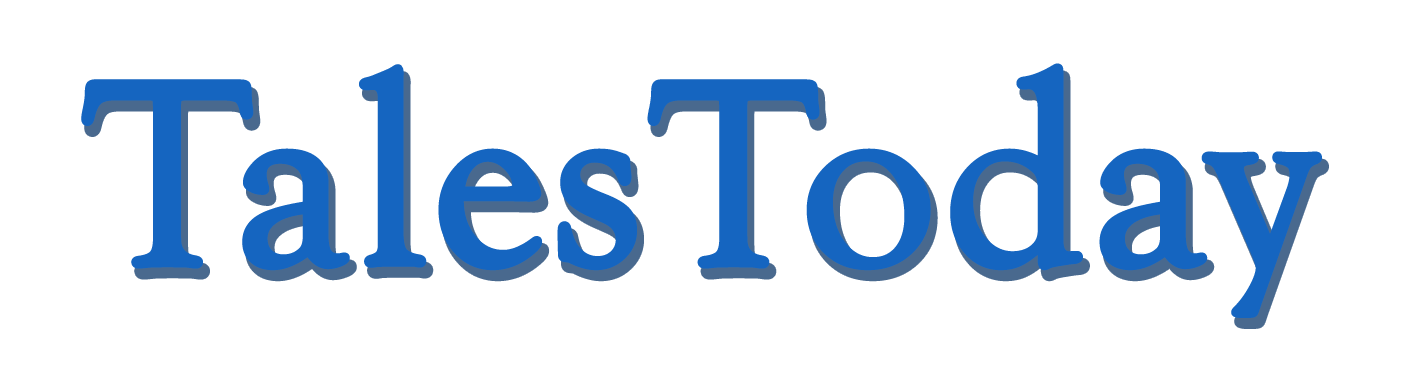
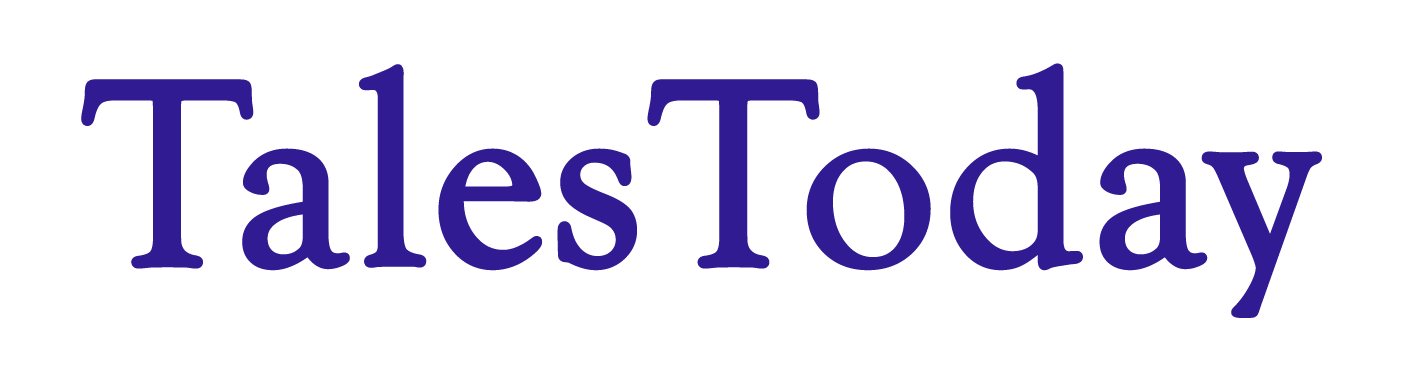
added new flair and did some UI work

Changed region(s): [[0.4344, 0.1793, 0.9619, 0.8967], [0.031, 0.1793, 0.4654, 0.7772]]

diff --git a/todaytales/utils/Constants.js b/todaytales/utils/Constants.js
@@ -1,8 +1,8 @@
 export const BASE_URL = process.env.NEXT_PUBLIC_REACT_APP_BASE_URL
 
-var primary='#26c6da'//green  
+var primary='#ffff00'//green  
 var primaryVariant='#ffff00'
-var secondary= '#ffffff'//blue  1565c0
+var secondary= '#311b92'//blue  1565c0
 var background= '#efefef'//light grey
 var sWhite= '#ffffff'
 var sBlack= '#000000'
@@ -16,46 +16,17 @@ export const COLORS = {
   primaryVariant,
   //misc
   textDark:sBlack,
-  circularProgressColor: primary,
   //header
   headerColor: primary,
   headerAccentColor: secondary,
   headerTextColor: secondary,
-  //booking boxes
-  bookingBoxDefault: sWhite,//white
-  bookingBoxtextLight: sWhite,//white
-  bookingBoxtextDark:'#6a6a6a',//grey
-  bookingBoxSelected:'#66bb6a',//green
-  bookingBoxBooked:'#e57373',//red
+  //cardBig
+  cardHalo: secondary,
+  //flairs
+  techFlairBg: '#90a4ae',
+  entFlairBg: '#ff8a65',
   //tags
   tagBackgroundColor: background,//aliceblue
-  //payment button
-  paymentButtonColor:'#66bb6a',//green
-  paymentButtonBorderColor:'#66bb6a',//green
-  paymentButtonTextColor:'#ffffff',
-  //message button
-  messageButtonColor:secondary,
-  messageButtonBorderColor:secondary,//green
-  messageButtonTextColor:sWhite,//green
-  mapInfoWindowBackground:'#ffffff',
-  //book now button
-  bookNowButtonColor: secondary,
-  bookNowButtonBorderColor: secondary,
-  bookNowButtonTextColor: sWhite,
-  //learn more button
-  learnMoreButtonColor: secondary,
-  learnMoreButtonTextColor: sWhite,
-  learnMoreButtonColorClosed:'grey',
-  learnMoreButtonTextColorClosed:sWhite,
-  statusLineColorClosed:'red',
-  statusLineOnlineClasses:'#f9a825',//kinda orange?
-  //filter area
-  filterBorderColor: sWhite,
-  filterLabelColor: sWhite,
-  faqLinkColor: sBlack,
-  //fab
-  fabCallBackground: primary,
-  fabCallForeground: sWhite
 }
 
 export const STYLES = {

diff --git a/todaytales/components/StoryCardBig.js b/todaytales/components/StoryCardBig.js
@@ -25,7 +25,11 @@ export default function StoryCardBig(props){
             </div>
             <div className="Contents">
               <h3>{story.title}</h3>
-              <p>by {story.author.name}</p>
+              <div className='innerGrid'>
+                <p>by {story.author.name}</p>
+                <div className={`flair ${story.category}`}>{story.category}</div>
+              </div>
+              
             </div>
           </a>
         </Link>
@@ -45,11 +49,41 @@ export default function StoryCardBig(props){
         .SimpleCard:hover,
         .SimpleCard:focus,
         .SimpleCard:active {
-          color: ${COLORS.primary};
-          border-color: ${COLORS.primary};
+          color: ${COLORS.cardHalo};
+          border-color: ${COLORS.cardHalo};
+        }
+
+        .innerGrid{
+          display: flex;
+          flex-direction: row;
+          justify-content: space-between;
+          margin-top: 1rem;
+        }
+
+        .flair {
+          display: flex;
+          align-items: center;
+          justify-content: center;
+          padding: 2px 6px;
+          border-radius: 16px;
+        }
+
+        .Tech {
+          color: ${COLORS.sWhite};
+          background-color: ${COLORS.techFlairBg};
+        }
+
+        .Entertainment {
+          color: ${COLORS.sWhite};
+          background-color: ${COLORS.entFlairBg};
         }
 
         h3 {
+          margin-bottom: 0px;
+        }
+
+        p {
+          margin-top: 0px;
           margin-bottom: 0px;
         }
 

diff --git a/todaytales/lib/api.js b/todaytales/lib/api.js
@@ -74,6 +74,7 @@ export async function getAllPostsForHome(preview) {
     {
       allPosts(orderBy: date_DESC, first: 20) {
         title
+        category
         slug
         excerpt
         date
@@ -101,9 +102,11 @@ export async function getPostAndMorePosts(slug, preview) {
   query PostBySlug($slug: String) {
     post(filter: {slug: {eq: $slug}}) {
       title
+      category
       slug
       content
       date
+      tags
       coverImage {
         responsiveImage(imgixParams: {fm: jpg, fit: crop, w: 640, h: 300 }) {
           ...responsiveImageFragment
@@ -116,11 +119,12 @@ export async function getPostAndMorePosts(slug, preview) {
 
     morePosts: allPosts(orderBy: date_DESC, first: 2, filter: {slug: {neq: $slug}}) {
       title
+      category
       slug
       excerpt
       date
       coverImage {
-        responsiveImage(imgixParams: {fm: jpg, fit: crop, w: 2000, h: 1000 }) {
+        responsiveImage(imgixParams: {fm: jpg, fit: crop, w: 640, h: 300 }) {
           ...responsiveImageFragment
         }
       }

diff --git a/todaytales/components/Header.js b/todaytales/components/Header.js
@@ -31,7 +31,7 @@ export default function Header(){
         }}>
         <div className='grid'>
           <div className='innerGrid' style={{flex:'30%'}}>
-            <Image alt='Tales Today Banner Image' src={`/headingText.png`} width="154" height="40"/>
+            <Image alt='Tales Today Banner Image' src={`/headingText2.png`} width="154" height="40"/>
           </div>
           <div className='innerGrid' style={{flex:'40%'}}>
             <div className='gridItem'><Link href='/'><a className={isSelected('/')?'selected':''}>Stories</a></Link></div>

diff --git a/todaytales/components/post-body.js b/todaytales/components/post-body.js
@@ -2,9 +2,9 @@ import Image from 'next/image'
 
 export default function PostBody({ content }) {
   var embeddedContent=content?.replace(/&#x3C;/g,'<').replace(/<code>/g,'')
-  console.log('embeddedContent',embeddedContent)
+  //console.log('embeddedContent',embeddedContent)
   var ImageResized = embeddedContent?.replace(/<img/g,'<img width="100%"')
-  console.log('ImageResized',ImageResized)
+  //console.log('ImageResized',ImageResized)
   return (
     <div>
       <div

diff --git a/todaytales/pages/story/[uniq].js b/todaytales/pages/story/[uniq].js
@@ -19,8 +19,8 @@ export default function StoryPage({ post, morePosts, preview }) {
   return (
     <div>
       <Head>
-        <title>Chacha</title>
-        <meta name="description" content='Chacha' />
+        <title>{post?.title}</title>
+        <meta name="description" content={post?.title} />
         <link rel="icon" href="/logo.png" />
       </Head>
       <Header/>

diff --git a/todaytales/pages/index.js b/todaytales/pages/index.js
@@ -28,7 +28,7 @@ export default function Home(props) {
         {`
           .main {
             min-height: 100vh;
-            padding: 2rem 0;
+            padding: 1rem 0;
             flex: 1;
             display: flex;
             flex-direction: row;
